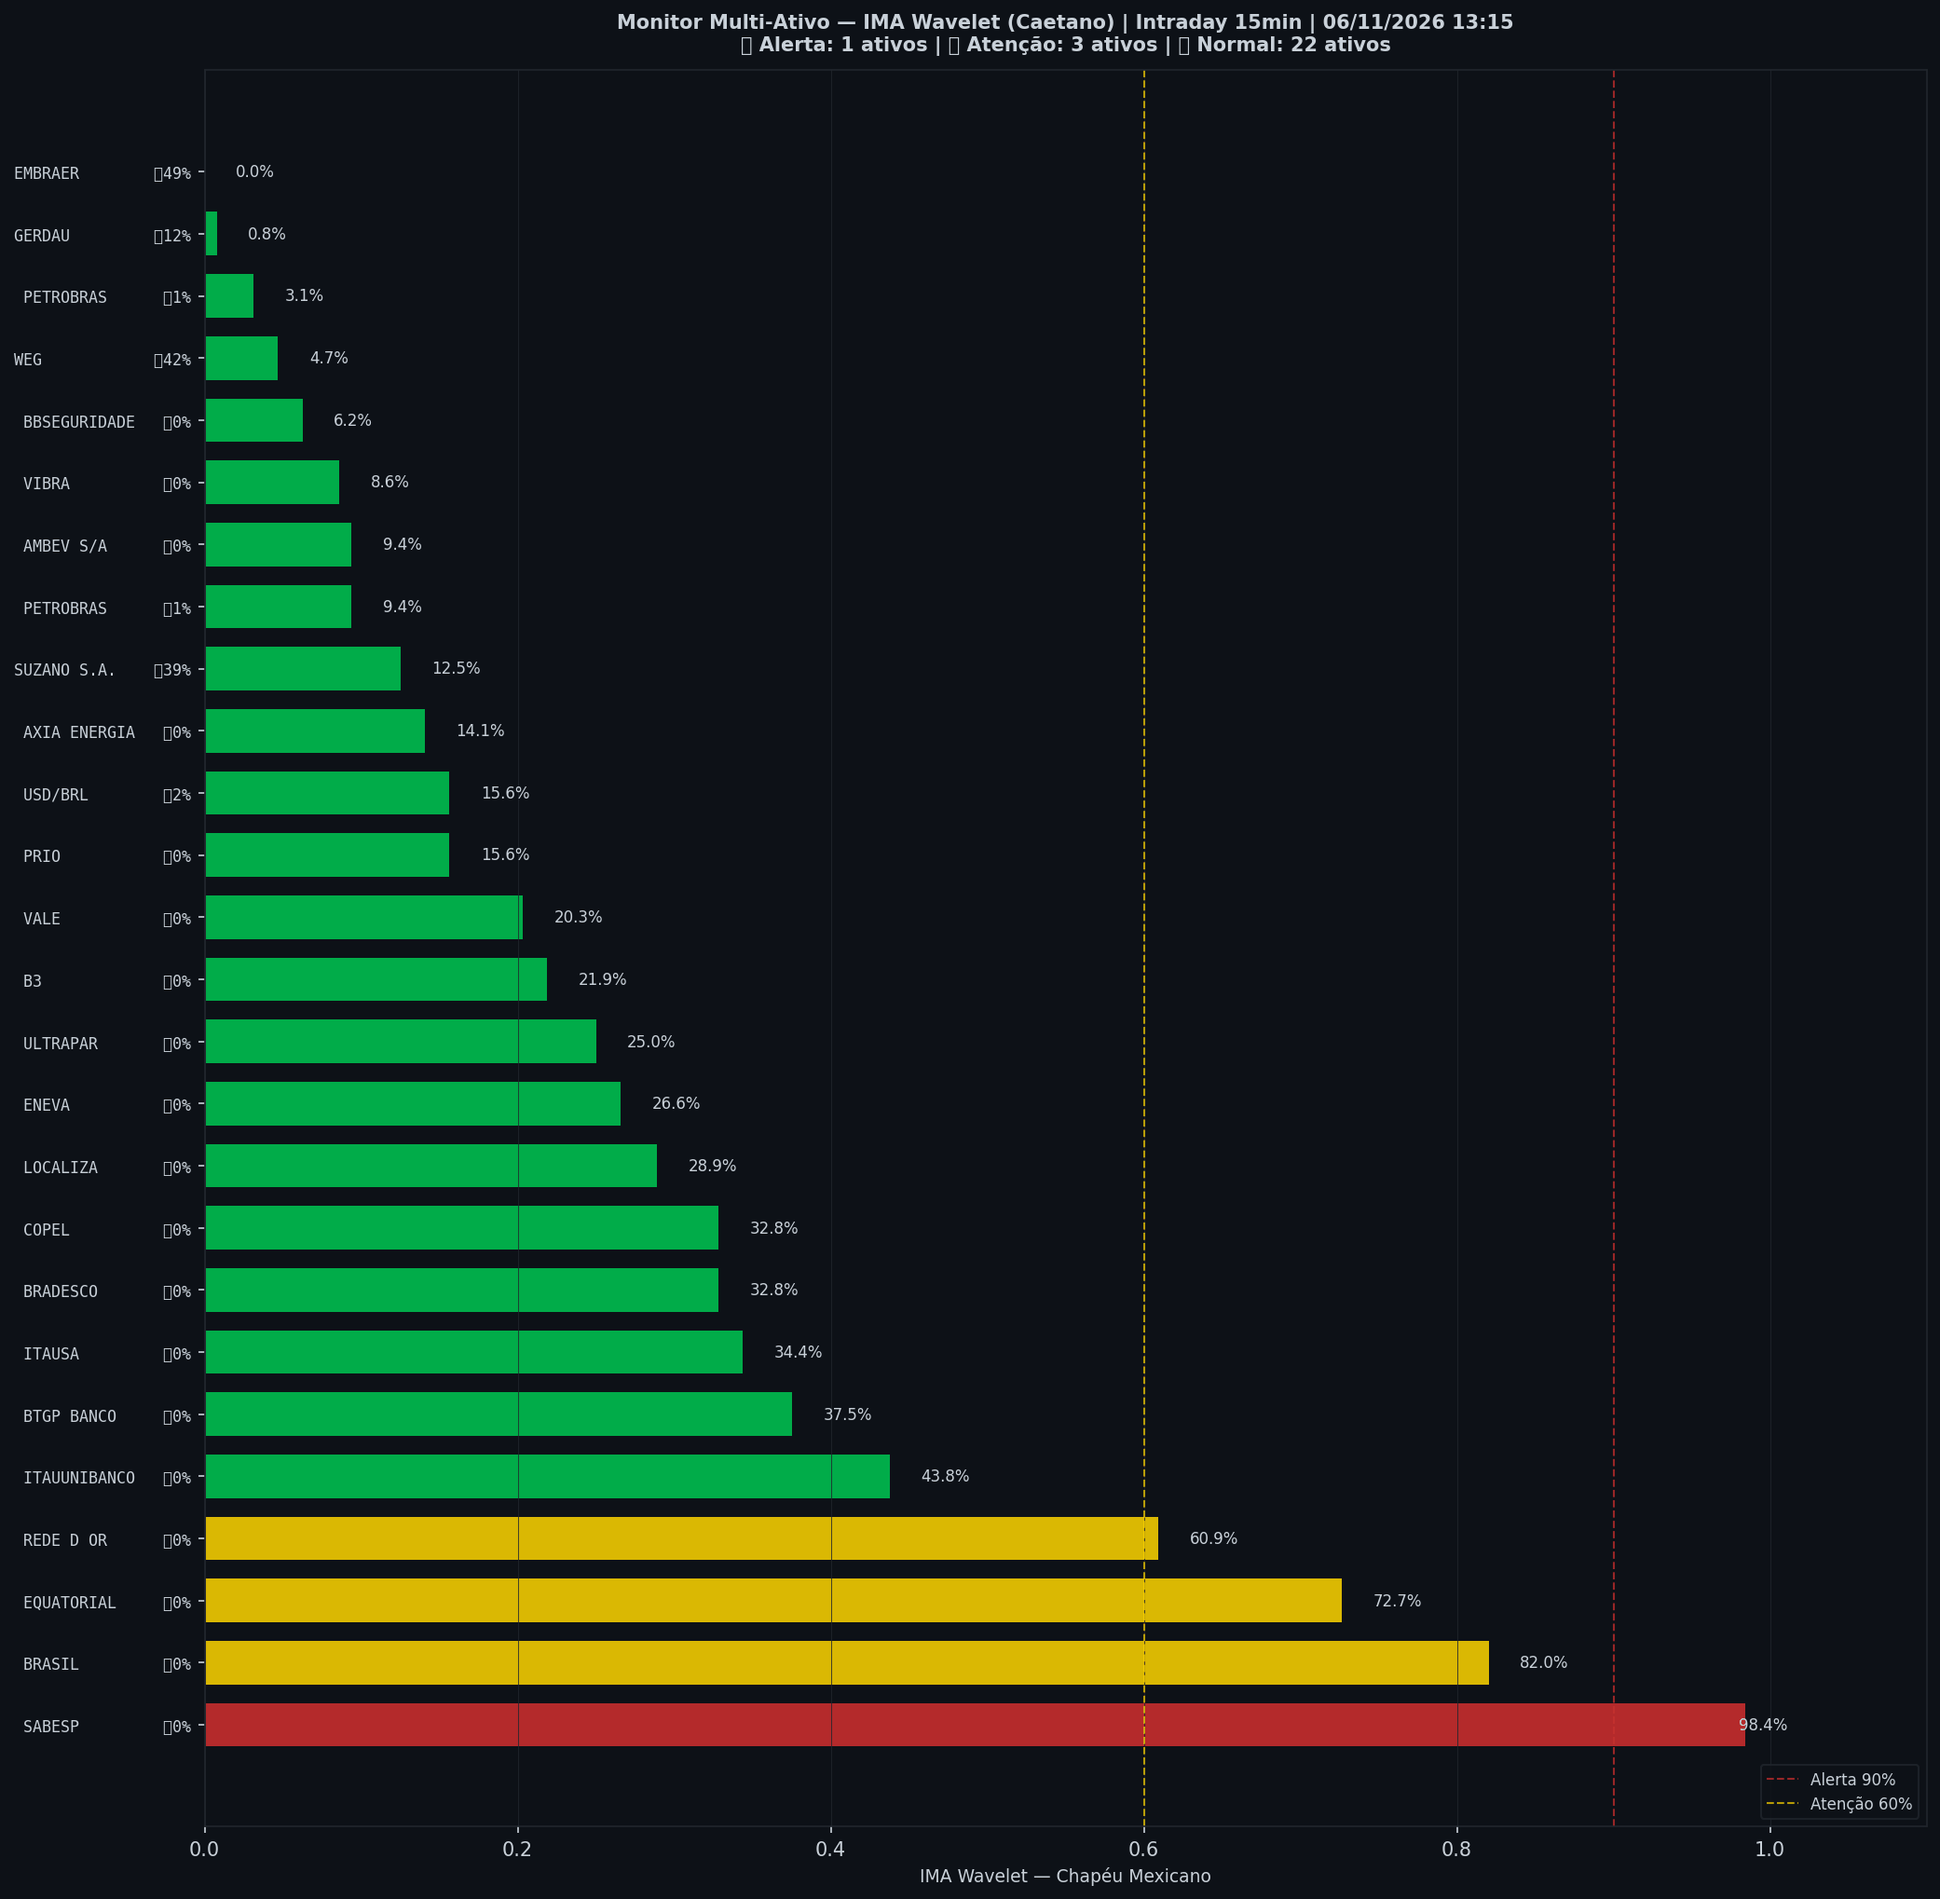
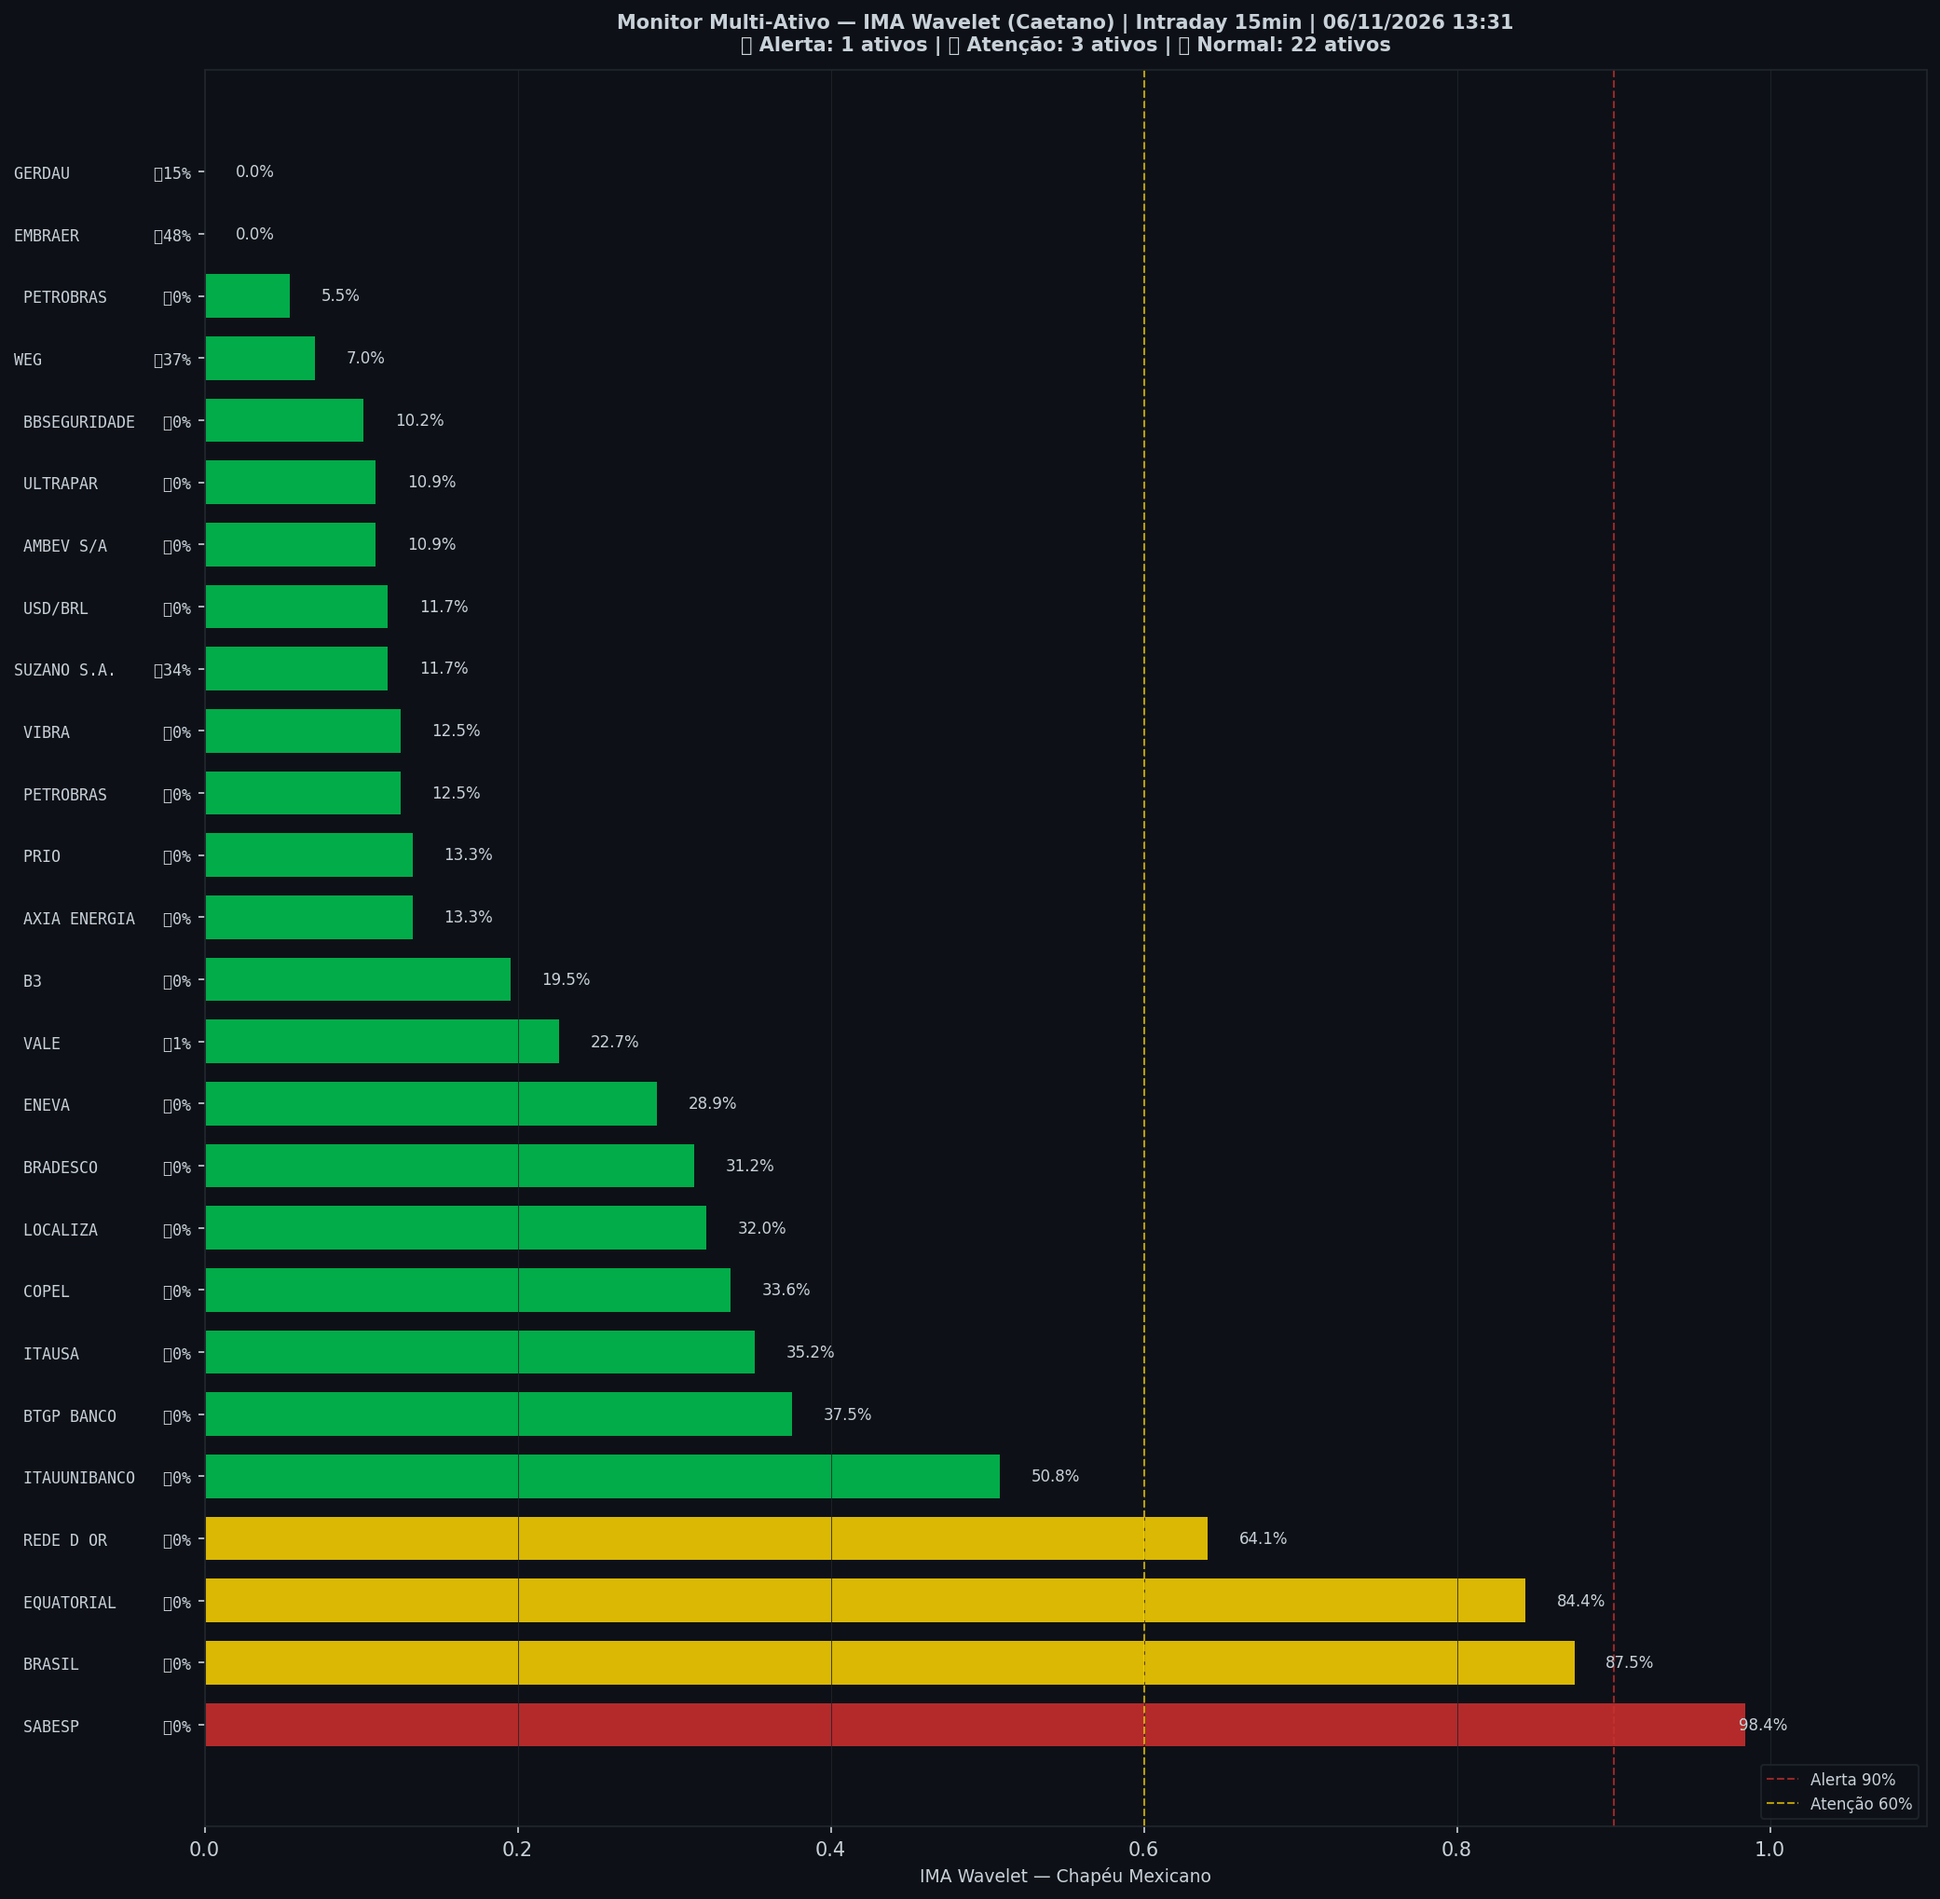
🤖 Auto: Sinal 06/11/2026 13:31

diff --git a/content/intraday/2026-11-06.md b/content/intraday/2026-11-06.md
@@ -1,10 +1,10 @@
 ---
-title: "🟢 Intraday 06/11/2026 13:00 BRT — VERDE"
+title: "🟢 Intraday 06/11/2026 13:15 BRT — VERDE"
 date: 2026-11-06
 tags: [intraday]
 ---
 
-> [!success] Onde o mercado está agora (06/11 13:00, candles de 15 min): **🟢 Calmo**
+> [!success] Onde o mercado está agora (06/11 13:15, candles de 15 min): **🟢 Calmo**
 > `Pânico ◀──────────────●──────▶ Euforia`
 >
 > O Ibovespa está dentro da sua faixa normal, sem excesso para cima nem para baixo.
@@ -20,7 +20,7 @@ tags: [intraday]
 > | 📍 **Sinais** | hoje: nenhum sinal | [abrir](sinais-topo-fundo/) |
 > | 🧪 **Placar ao vivo** | 1 operação(ões), 0 com lucro, soma -0,8% | [abrir](operacoes/) |
 
-> [!success] IMA Intraday · 15 min (06/11 13:00): 🟢 **VERDE** — Risco 35% · ▲ +2 p.p. vs leitura anterior
+> [!success] IMA Intraday · 15 min (06/11 13:15): 🟢 **VERDE** — Risco 36% · ▲ +1 p.p. vs leitura anterior
 > `███████░░░░░░░░░░░░░`
 > Preço na faixa normal em torno da tendência.
 
@@ -32,13 +32,13 @@ tags: [intraday]
 >
 > *Leitura educacional baseada em 26 anos de dados, não recomendação. [Como usar](../metodologia/crise#3-como-usar-na-prática).*
 
-| Indicador — IMA Intraday · 15 min (06/11 13:00) | Valor |
+| Indicador — IMA Intraday · 15 min (06/11 13:15) | Valor |
 |---|---|
-| 🔴 ζ Topo — preço esticado acima da tendência | **35%** |
+| 🔴 ζ Topo — preço esticado acima da tendência | **36%** |
 | 🔵 ζ Fundo — preço esticado abaixo da tendência | 0% |
 | 🫧 LPPL bolha — alta super-exponencial (risco de crash) | 0% |
 | 🫧 LPPL antibolha — queda super-exponencial (risco de repique) | 0% |
-| 📊 Ibovespa | 168.555 pts |
+| 📊 Ibovespa | 168.764 pts |
 
 ![Gráfico do sinal](../graficos/sinal_intraday.png)
 
@@ -46,6 +46,7 @@ tags: [intraday]
 
 | Data | Zona | Evento | Risco | ζ Topo | ζ Fundo | LPPL |
 |---|---|---|---|---|---|---|
+| 2026-11-06 13:15 | 🟢 VERDE |  | **36%** | 36% | 0% | 0% |
 | 2026-11-06 13:00 | 🟢 VERDE |  | **35%** | 35% | 0% | 0% |
 | 2026-11-06 12:45 | 🟢 VERDE |  | **34%** | 34% | 0% | 0% |
 | 2026-11-06 12:30 | 🟢 VERDE |  | **31%** | 31% | 0% | 0% |
@@ -75,7 +76,6 @@ tags: [intraday]
 | 2026-11-05 14:45 | 🟢 VERDE |  | **0%** | 0% | 1% | 0% |
 | 2026-11-05 14:30 | 🟢 VERDE |  | **0%** | 0% | 2% | 0% |
 | 2026-11-05 14:15 | 🟢 VERDE |  | **0%** | 0% | 1% | 0% |
-| 2026-11-05 14:00 | 🟢 VERDE |  | **0%** | 0% | 1% | 0% |
 
 <small>Destaques: 🟡 ≥ 60% · 🔴 ≥ 90% (Risco e ζ Topo) · 🔵 ≥ 60% · 🔪 ≥ 90% (ζ Fundo) · 🫧 ≥ 30% · 🫧🔴 ≥ 50% (LPPL)</small>
 
@@ -84,42 +84,42 @@ tags: [intraday]
 **15% dos ativos em tensão** (1🔴 3🟡) · **0 com ζ Fundo alto** — quanto mais ativos disparam juntos, mais confiável o sinal.
 
 > [!danger] Em destaque no multi-ativo
-> 🔴 **SABESP** ζ Topo 98% · 🟡 **BRASIL** ζ Topo 82% · 🟡 **EQUATORIAL** ζ Topo 73% · 🟡 **REDE D OR** ζ Topo 61%
+> 🔴 **SABESP** ζ Topo 98% · 🟡 **BRASIL** ζ Topo 88% · 🟡 **EQUATORIAL** ζ Topo 84% · 🟡 **REDE D OR** ζ Topo 64%
 
 | Zona | Ativo | Setor | ζ Topo | ζ Fundo |
 |---|---|---|---|---|
 | 🔴 | **SABESP** | Saneamento | 🔴 **98.4%** | 0.0% |
-| 🟡 | **BRASIL** | Financeiro | 🟡 **82.0%** | 0.0% |
-| 🟡 | **EQUATORIAL** | Energia | 🟡 **72.7%** | 0.0% |
-| 🟡 | **REDE D OR** | Saúde | 🟡 **60.9%** | 0.0% |
-| 🟢 | **EMBRAER** | Outros | 0.0% | 49.2% |
-| 🟢 | **ITAUUNIBANCO** | Financeiro | 43.8% | 0.0% |
-| 🟢 | **WEG** | Industrial | 4.7% | 42.2% |
-| 🟢 | **SUZANO S.A.** | Papel/Celulose | 12.5% | 39.1% |
+| 🟡 | **BRASIL** | Financeiro | 🟡 **87.5%** | 0.0% |
+| 🟡 | **EQUATORIAL** | Energia | 🟡 **84.4%** | 0.0% |
+| 🟡 | **REDE D OR** | Saúde | 🟡 **64.1%** | 0.0% |
+| 🟢 | **ITAUUNIBANCO** | Financeiro | 50.8% | 0.0% |
+| 🟢 | **EMBRAER** | Outros | 0.0% | 48.4% |
 | 🟢 | **BTGP BANCO** | Financeiro | 37.5% | 0.0% |
-| 🟢 | **ITAUSA** | Financeiro | 34.4% | 0.0% |
-| 🟢 | **BRADESCO** | Financeiro | 32.8% | 0.0% |
-| 🟢 | **COPEL** | Energia | 32.8% | 0.0% |
-| 🟢 | **LOCALIZA** | Aluguel | 28.9% | 0.0% |
-| 🟢 | **ENEVA** | Energia | 26.6% | 0.0% |
-| 🟢 | **ULTRAPAR** | Outros | 25.0% | 0.0% |
-| 🟢 | **B3** | Financeiro | 21.9% | 0.0% |
-| 🟢 | **VALE** | Mineração | 20.3% | 0.0% |
-| 🟢 | **PRIO** | Petróleo | 15.6% | 0.0% |
-| 🟢 | **USD/BRL** | Câmbio | 15.6% | 1.6% |
-| 🟢 | **AXIA ENERGIA** | Energia | 14.1% | 0.0% |
-| 🟢 | **GERDAU** | Siderurgia | 0.8% | 11.7% |
-| 🟢 | **PETROBRAS** | Petróleo | 9.4% | 0.8% |
-| 🟢 | **AMBEV S/A** | Consumo | 9.4% | 0.0% |
-| 🟢 | **VIBRA** | Energia | 8.6% | 0.0% |
-| 🟢 | **BBSEGURIDADE** | Financeiro | 6.2% | 0.0% |
-| 🟢 | **PETROBRAS** | Petróleo | 3.1% | 0.8% |
+| 🟢 | **WEG** | Industrial | 7.0% | 36.7% |
+| 🟢 | **ITAUSA** | Financeiro | 35.2% | 0.0% |
+| 🟢 | **SUZANO S.A.** | Papel/Celulose | 11.7% | 34.4% |
+| 🟢 | **COPEL** | Energia | 33.6% | 0.0% |
+| 🟢 | **LOCALIZA** | Aluguel | 32.0% | 0.0% |
+| 🟢 | **BRADESCO** | Financeiro | 31.2% | 0.0% |
+| 🟢 | **ENEVA** | Energia | 28.9% | 0.0% |
+| 🟢 | **VALE** | Mineração | 22.7% | 0.8% |
+| 🟢 | **B3** | Financeiro | 19.5% | 0.0% |
+| 🟢 | **GERDAU** | Siderurgia | 0.0% | 14.8% |
+| 🟢 | **AXIA ENERGIA** | Energia | 13.3% | 0.0% |
+| 🟢 | **PRIO** | Petróleo | 13.3% | 0.0% |
+| 🟢 | **PETROBRAS** | Petróleo | 12.5% | 0.0% |
+| 🟢 | **VIBRA** | Energia | 12.5% | 0.0% |
+| 🟢 | **USD/BRL** | Câmbio | 11.7% | 0.0% |
+| 🟢 | **AMBEV S/A** | Consumo | 10.9% | 0.0% |
+| 🟢 | **ULTRAPAR** | Outros | 10.9% | 0.0% |
+| 🟢 | **BBSEGURIDADE** | Financeiro | 10.2% | 0.0% |
+| 🟢 | **PETROBRAS** | Petróleo | 5.5% | 0.0% |
 
 <small>Destaques: 🟡 ≥ 60% · 🔴 ≥ 90% (Risco e ζ Topo) · 🔵 ≥ 60% · 🔪 ≥ 90% (ζ Fundo) · 🫧 ≥ 30% · 🫧🔴 ≥ 50% (LPPL)</small>
 
 ![Monitor multi-ativo](../graficos/multi_intraday.png)
 
-*Página atualizada em 06/11/2026 13:15 BRT (leitura da barra de 2026-11-06 13:00 BRT).*
+*Página atualizada em 06/11/2026 13:31 BRT (leitura da barra de 2026-11-06 13:15 BRT).*
 
 > [!warning] O que este indicador não faz
 > Medido em 5 anos de Ibovespa, o ζ **não antecipa** topos nem fundos: a capacidade de separar o que sobe do que cai ficou em 0,49–0,52, e 0,50 é moeda jogada ao ar. Ele descreve o estado de agora; não é aviso do que vem. As zonas verde/amarelo/vermelho continuam na página como descrição desse estado — **não as use como sinal de entrada ou saída**.

diff --git a/content/index.md b/content/index.md
@@ -6,9 +6,9 @@ tags: [home]
 
 **As ondas do mercado, explicadas.** Leitura do Ibovespa com estatística de 26 anos, baseada no trabalho de pesquisadores e traders reconhecidos e adaptada por Jarbas Daniel da Costa.
 
-*Última atualização: 06/11/2026 13:15 BRT · Intraday 15min*
+*Última atualização: 06/11/2026 13:31 BRT · Intraday 15min*
 
-> [!success] Onde o mercado está agora (06/11 13:00, candles de 15 min): **🟢 Calmo**
+> [!success] Onde o mercado está agora (06/11 13:15, candles de 15 min): **🟢 Calmo**
 > `Pânico ◀──────────────●──────▶ Euforia`
 >
 > O Ibovespa está dentro da sua faixa normal, sem excesso para cima nem para baixo.
@@ -20,7 +20,7 @@ tags: [home]
 
 | Módulo | Agora | |
 |---|---|---|
-| 🌊 **Sinal de Crise** | 🟢 VERDE · 🟢 calmo · ζ Topo 35% | [relatório](intraday/2026-11-06) |
+| 🌊 **Sinal de Crise** | 🟢 VERDE · 🟢 calmo · ζ Topo 36% | [relatório](intraday/2026-11-06) |
 | 📈 **Tendência MME9** | Diário — fora<br>Semanal — fora | [abrir](operacoes/tendencia) |
 | 🎯 **Entradas do método** | ⏳ aguardando: Diário · Nadaraya, Diário · Semáforo N3 após ζ Fundo | [abrir](operacoes/entradas) |
 | 📍 **Sinais** | hoje: nenhum sinal | [abrir](sinais-topo-fundo/) |
@@ -54,18 +54,18 @@ tags: [home]
 > *Leitura educacional baseada em 26 anos de dados, não recomendação. [Como usar](metodologia/crise#3-como-usar-na-prática).*
 
 > [!info]- 🌊 Detalhes do Sinal de Crise (indicadores e últimos 7 pregões)
-> > [!success] IMA Intraday · 15 min (06/11 13:00): 🟢 **VERDE** — Risco 35% · ▲ +2 p.p. vs leitura anterior
+> > [!success] IMA Intraday · 15 min (06/11 13:15): 🟢 **VERDE** — Risco 36% · ▲ +1 p.p. vs leitura anterior
 > > `███████░░░░░░░░░░░░░`
 > > Preço na faixa normal em torno da tendência.
 >
 >
-> | Indicador — IMA Intraday · 15 min (06/11 13:00) | Valor |
+> | Indicador — IMA Intraday · 15 min (06/11 13:15) | Valor |
 > |---|---|
-> | 🔴 ζ Topo — preço esticado acima da tendência | **35%** |
+> | 🔴 ζ Topo — preço esticado acima da tendência | **36%** |
 > | 🔵 ζ Fundo — preço esticado abaixo da tendência | 0% |
 > | 🫧 LPPL bolha — alta super-exponencial (risco de crash) | 0% |
 > | 🫧 LPPL antibolha — queda super-exponencial (risco de repique) | 0% |
-> | 📊 Ibovespa | 168.555 pts |
+> | 📊 Ibovespa | 168.764 pts |
 >
 > **Multi-ativo:** 15% em tensão (1🔴 3🟡 de 26 ativos)
 >
@@ -73,7 +73,7 @@ tags: [home]
 >
 > | Data | Zona | Risco | ζ Topo | ζ Fundo | LPPL |
 > |---|---|---|---|---|---|
-> | [06/11/2026](intraday/2026-11-06) | 🟢 VERDE | **35%** | 35% | 0% | 0% |
+> | [06/11/2026](intraday/2026-11-06) | 🟢 VERDE | **36%** | 36% | 0% | 0% |
 > | [05/11/2026](intraday/2026-11-05) | 🟢 VERDE | **0%** | 0% | 0% | 0% |
 >
 > <small>Destaques: 🟡 ≥ 60% · 🔴 ≥ 90% (Risco e ζ Topo) · 🔵 ≥ 60% · 🔪 ≥ 90% (ζ Fundo) · 🫧 ≥ 30% · 🫧🔴 ≥ 50% (LPPL)</small>

diff --git a/content/historico.md b/content/historico.md
@@ -5,7 +5,7 @@ tags: [historico]
 
 # 📜 Histórico de leituras (v5)
 
-**2.189 leituras** desde 2026-07-03. Na página ficam os últimos 3 dias leitura por leitura e o resumo de cada dia anterior; o registro inteiro está no arquivo para baixar.
+**2.190 leituras** desde 2026-07-03. Na página ficam os últimos 3 dias leitura por leitura e o resumo de cada dia anterior; o registro inteiro está no arquivo para baixar.
 
 [**Baixar o histórico completo**](historico-completo.csv) (96 KB · abre no Excel e no LibreOffice)
 
@@ -16,6 +16,7 @@ tags: [historico]
 
 | Data | Modo | Zona | Risco | IMA | LPPL |
 |---|---|---|---|---|---|
+| 2026-11-06 13:15 | intraday | 🟢 VERDE | 36% | 36% | 0% |
 | 2026-11-06 13:00 | intraday | 🟢 VERDE | 35% | 35% | 0% |
 | 2026-11-06 12:45 | intraday | 🟢 VERDE | 34% | 34% | 0% |
 | 2026-11-06 12:30 | intraday | 🟢 VERDE | 31% | 31% | 0% |

diff --git a/content/operacoes/ranking.md b/content/operacoes/ranking.md
@@ -5,7 +5,7 @@ tags: [operacoes]
 description: "As regras de compra do site ordenadas pelo resultado, com treino, teste e placar ao vivo"
 ---
 
-*Atualizado 06/11/2026 13:15 · histórico simulado com as regras congeladas em 23/10/2026 + placar ao vivo.*
+*Atualizado 06/11/2026 13:31 · histórico simulado com as regras congeladas em 23/10/2026 + placar ao vivo.*
 
 As regras de compra do site, **da que mais rendeu para a que menos rendeu**. O resultado é por operação, no índice à vista, sem custos e sem juros compostos (a soma é só a soma das operações). **Treino** = entradas de 2001 a 2013 e **teste** = 2014 em diante: uma regra só é confiável se ganhou nos dois. O único resultado sem nenhum ajuste ao histórico é o **placar ao vivo**.
 

diff --git a/content/linha-do-tempo/index.md b/content/linha-do-tempo/index.md
@@ -5,7 +5,7 @@ description: "Todo sinal, ordem, stop e aviso do Pêndulo de Mercado, do mais re
 tags: [eventos]
 ---
 
-*Atualizada 06/11/2026 13:15 BRT · a cada 15 min no pregão e às 19h.*
+*Atualizada 06/11/2026 13:31 BRT · a cada 15 min no pregão e às 19h.*
 
 Tudo o que o sistema fez ou detectou, **do mais recente para o mais antigo**: sinais de topo e fundo, ordens de compra e de venda armadas, compras, vendas, stops, avisos de 🚨 preço perto do nível e mudanças da Crise. Os **últimos 7 dias** ficam abertos; o resto, por **ano → mês → dia**.
 
